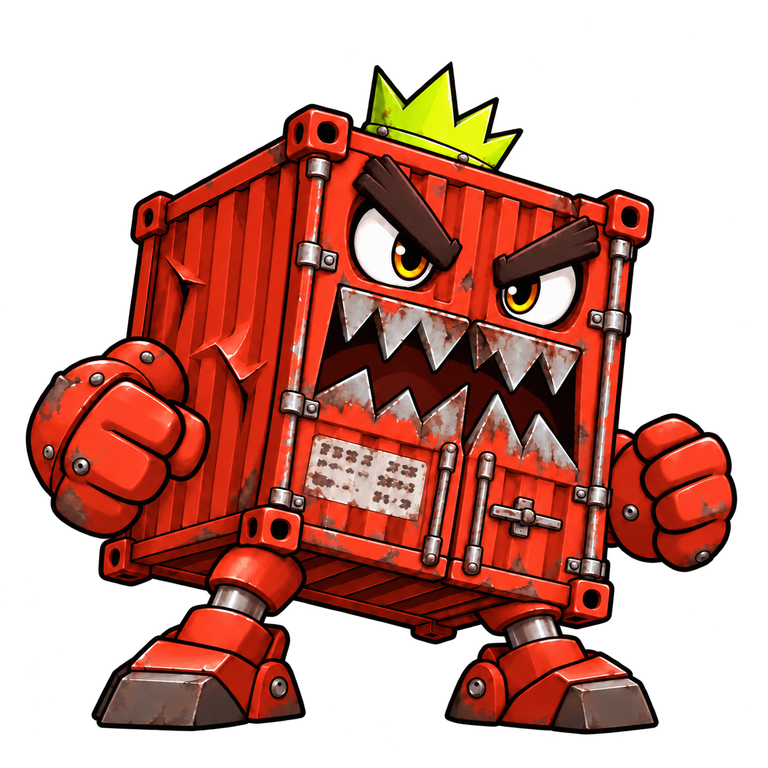
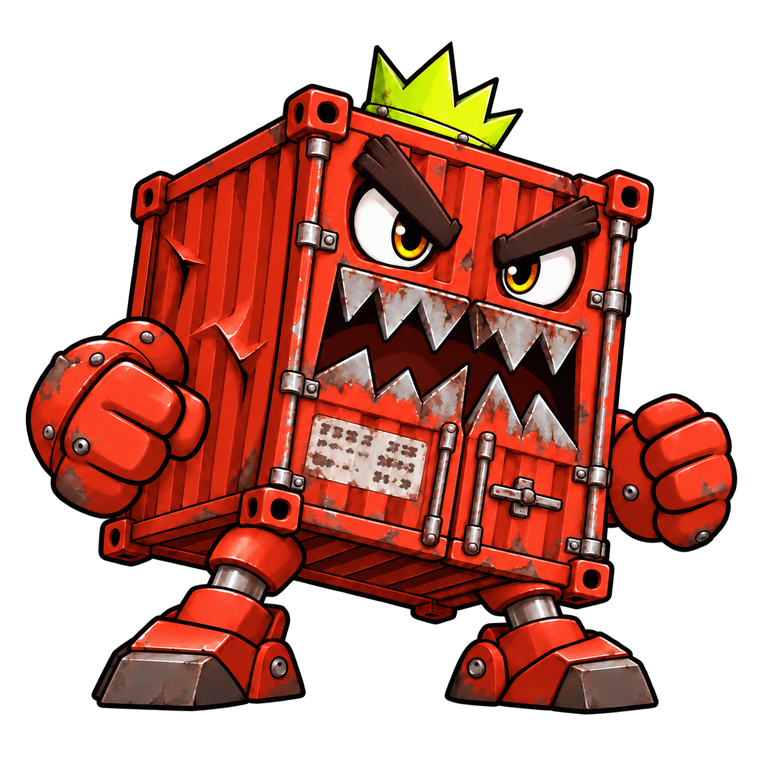
fix(game): align B1 stomp roots and recovery

diff --git a/combat-v3-b1-stomp-qa.md b/combat-v3-b1-stomp-qa.md
@@ -1,19 +1,16 @@
-# B1 stomp asset QA
+# B1 stomp asset QA (revision 3)
 
-- Scope: asset-only QA; no game integration was performed.
-- Transform: one full-canvas uniform scale 768/1254; no crop or per-frame translation. Target pivot (384,714).
-- Alpha: all final files are RGBA, min 0/max 255, with transparent canvas area and partial-alpha edges.
-- Visual QA: reviewed on white and dark composites; no baked checkerboard remains in final outputs.
-- Identity/scale: frames 1, 2, 3 and 5 were revised from the impact master by pose-only edits to reduce earlier camera/scale drift. Frame 4 is the master impact; frame 6 retains the current transparent raw.
-- Limitation: hand-drawn AI frame anatomy remains subject to final art-direction approval; this proves asset QA only, not engine/collider/event integration.
+- Scope: asset QA only; neither runtime animation events nor colliders were integrated.
+- Frame 4: regenerated by a pose-only edit from the impact master: torso lowered, knees compressed, fists react downward.
+- Frame 6: regenerated from original idle identity plus the impact master; it returns to an intentionally near-idle recovery pose.
+- Transform: every raw frame is uniformly scaled by 768/1254 to a 768x768 canvas with no crop. Then the whole frame is translated only by its support-foot contact to ground y=714; lifted foot frames 2–3 are anchored by their other support foot.
+- Alpha cleanup: alpha values 1–8 are removed as edge noise; values 9–254 are retained for anti-aliasing. Visual composites were made against light and dark backgrounds.
 
-## Per-frame alpha
-
-| Frame | alpha 0 % | partial pixels | bbox | SHA-256 |
-|---|---:|---:|---|---|
[6 lines of base64/hex data omitted]
+| Frame | root dy | support foot y | alpha 0 % | SHA-256 |
+|---|---:|---:|---:|---|
[6 lines of base64/hex data omitted]
